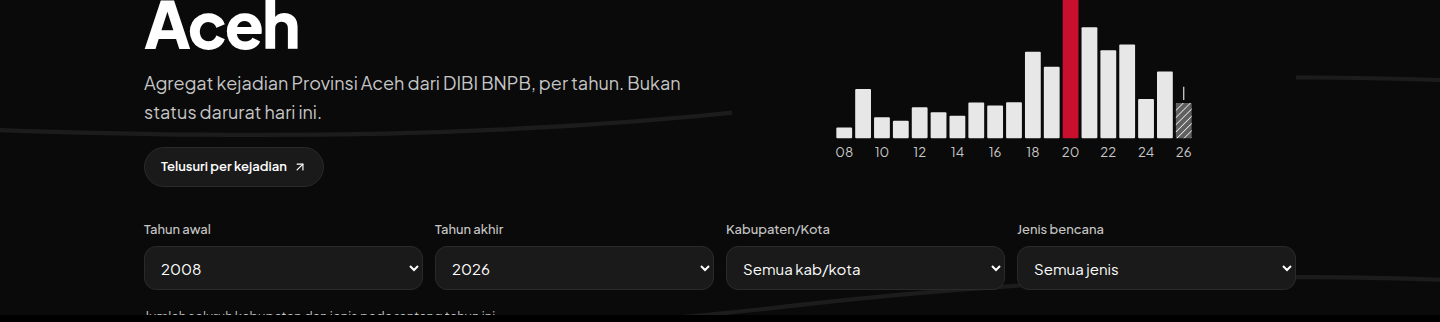
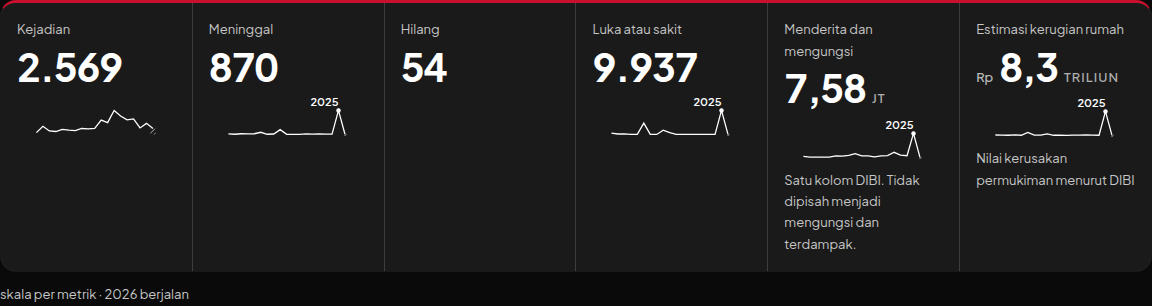
FE-67: retake the number-band element screenshots
The earlier band files clipped the hero chart. These shots frame the band itself, including the 13px note, with the sticky header out of the bitmap.

diff --git a/src/components/beranda/DataHero.tsx b/src/components/beranda/DataHero.tsx
@@ -406,7 +406,9 @@ export function DataHero() {
             </fieldset>
 
             <div id="dibi-catatan" className="mt-4 space-y-1" aria-live="polite">
-              <p className={cn("text-[var(--text-dim)]", TYPE_FLOOR_CLASS)}>{scopeNote}</p>
+              {showSparks ? (
+                <p className={cn("text-[var(--text-dim)]", TYPE_FLOOR_CLASS)}>{scopeNote}</p>
+              ) : null}
               {view.trendIgnoresKabupaten || view.trendIgnoresJenis ? (
                 <p className={cn("text-[var(--text-dim)]", TYPE_FLOOR_CLASS)}>
                   {t("statistik.trendScopeNote")}
@@ -492,17 +494,17 @@ export function DataHero() {
               </figure>
             </div>
 
-            <Counters
-              metrics={metrics}
-              locale={locale}
-              trend={view.trend}
-              showSparks={showSparks}
-            />
-            {showSparks ? (
+            <div data-testid="number-band-block">
+              <Counters
+                metrics={metrics}
+                locale={locale}
+                trend={view.trend}
+                showSparks={showSparks}
+              />
               <p className={cn("mt-3 text-[var(--text-dim)]", TYPE_FLOOR_CLASS)}>
-                {t("statistik.scaleNote")}
+                {showSparks ? t("statistik.scaleNote") : scopeNote}
               </p>
-            ) : null}
+            </div>
 
             <p className={cn("mt-4 text-[var(--text-dim)]", TYPE_FLOOR_CLASS)}>
               {t("statistik.noIncidents")}

diff --git a/src/lib/fe-67-visual-2.test.ts b/src/lib/fe-67-visual-2.test.ts
@@ -29,6 +29,7 @@ describe("FE-67 visual-2", () => {
     assert.match(hero, /bandShowsSparklines/);
     assert.match(hero, /spark\(null\)/);
     assert.match(hero, /statistik\.scaleNote/);
+    assert.match(hero, /data-testid="number-band-block"/);
     assert.match(spark, /text-\[var\(--band-fg\)\]/);
     assert.doesNotMatch(spark, /chart-2|#C8102E|#c8102e/);
     const id = JSON.parse(read("messages/id.json")) as {

diff --git a/docs/pengembangan/jurnal/FE-67.md b/docs/pengembangan/jurnal/FE-67.md
@@ -18,7 +18,7 @@ Seri dan total datang dari `aggregateDibiBeranda` pada payload yang lolos guard.
 
 ## Perubahan
 
-Grafik area tahun diganti batang. Kontur dekoratif 7% duduk di belakang hero dan tertutup permukaan grafik. Label "berjalan" duduk di jalur di atas plot, berakhir di kiri garis penunjuk, dan garis itu hanya menyentuh puncak batang 2026. Tick tahun ditampilkan tiap dua tahun supaya label 13px tidak saling menempel. Di bawah 640px kartu grafik punya padding kanan supaya FAB tidak menutup batang 2026. Pita angka menggambar sparkline untuk kejadian, meninggal, luka, menderita, dan kerugian. Hilang menyisakan slot kosong setinggi sparkline. Catatan skala tampil sekali. Panel Pengaturan mendapat fade bawah saat isi masih tergulir. Kartu Status mobile ikut `settingsOpen`. Komentar lubang kanvas menyebut tangkapan headless. Kicker hub lapor memakai `--eyebrow` (5,49:1 di terang). Penolakan kartu undangan tersimpan di `localStorage`. Footer mobile memakai `pb-20`.
+Grafik area tahun diganti batang. Kontur dekoratif 7% duduk di belakang hero dan tertutup permukaan grafik. Label "berjalan" duduk di jalur di atas plot, berakhir di kiri garis penunjuk, dan garis itu hanya menyentuh puncak batang 2026. Tick tahun ditampilkan tiap dua tahun supaya label 13px tidak saling menempel. Di bawah 640px kartu grafik punya padding kanan supaya FAB tidak menutup batang 2026. Pita angka menggambar sparkline untuk kejadian, meninggal, luka, menderita, dan kerugian. Hilang menyisakan slot kosong setinggi sparkline. Catatan skala tampil sekali, di dalam `data-testid="number-band-block"` bersama ubin. Saat filter kabupaten atau jenis aktif, kalimat cakupan pindah ke bawah pita (13px) dan sparkline tidak digambar. Panel Pengaturan mendapat fade bawah saat isi masih tergulir. Kartu Status mobile ikut `settingsOpen`. Komentar lubang kanvas menyebut tangkapan headless. Kicker hub lapor memakai `--eyebrow` (5,49:1 di terang). Penolakan kartu undangan tersimpan di `localStorage`. Footer mobile memakai `pb-20`.
 
 ## Bukti
 
@@ -46,6 +46,11 @@ Tangkapan:
 - `fe-67/peta-390x844-pengaturan-gelap.png`
 - `fe-67/lapor-390-terang.png`
 - `fe-67/lapor-390-gelap.png`
+- `fe-67/band-1440x900-terang.png`
+- `fe-67/band-1440x900-gelap.png`
+- `fe-67/band-390x844-terang.png`
+- `fe-67/band-390x844-gelap.png`
+- `fe-67/band-1440-terang-kabupaten.png`
 
 ## Bacaan ulang bukti versus kriteria
 
